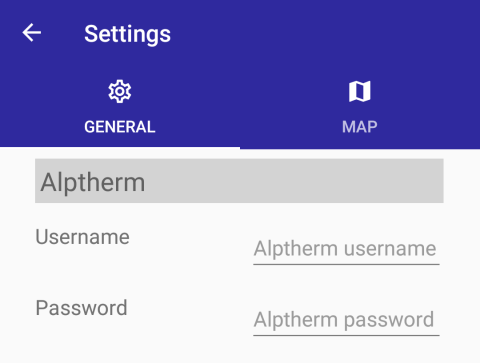
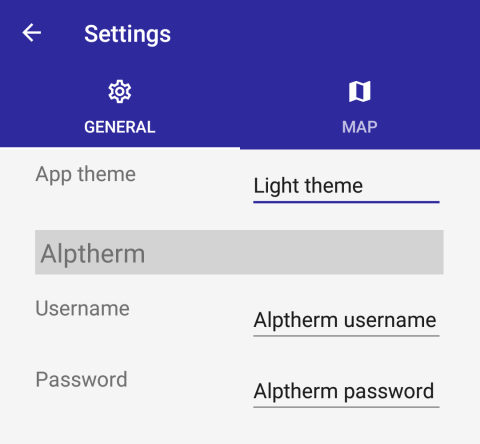
updated manual

diff --git a/src/App/Resources/Assets/info/manual.md b/src/App/Resources/Assets/info/manual.md
@@ -6,22 +6,56 @@ Welcome to the manual page for the Where-to-fly app!
 
 ![Map View](images/map-view.jpg)
 
-The 3D map lets you see the terrain profile of the world in a map that can
-display different imagery layers (in this case OpenStreetMap). The map is
-shaded according to the sun's current position. The map can be moved around
-using touch controls:
+The map lets you see a 3D map that visualizes the terrain of the world.
+Different imagery layers can be used to show the ground details (in this case
+it's OpenStreetMap). The map is shaded according to the sun's current
+position, in order to see which slopes are better for early thermals or late
+in the day. The map can be moved around using touch controls:
 
 ![Map touch controls](images/map-touch-controls.png)
 
-Locations and tracks can be imported and are displayed on the map. Locations
-can be tapped to show more infos about a pin. Additional custom layers can be
-added that can display other geometric objects, such as thermals, national
-park areas, air spaces or labels. Here you can see the details of a summit
-location:
+Locations and tracks can be imported and are displayed on the map. Location
+pins can be tapped to show detail infos about a location. Here you can see the
+details of a summit location:
 
 ![Location info](images/location-info.png)
 
-Depending on the map element, different option icons are displayed.
+Depending on the map element, different option icons are displayed. Locations
+have the following options:
+
+- ![Show details](images/information-outline.svg) Show details: Opens a page
+  with the location's details
+- ![Navigate here](images/directions.svg) Navigate here: Starts the navigation
+  app to show a route to this point
+
+### Track height profile
+
+When tapping on a track, the height profile of that track is shown in a
+semi-transparent window on the lower part of the window:
+
+![Track height profile](images/track-height-profile.png)
+
+The height profile shows the tracks's height, and if it's a flight track, also
+shows the ground profile. When touching the height profile with a finger, or
+when hovering or clicking with a mouse, a line and a tooltip is shown with
+extra infos about the current position. Additionally, a purple pin is shown in
+the map at the current track position.
+
+There are several toolbar buttons above the track height profile:
+
+- ![Zoom-and-pan](../map/images/gesture-spread.svg) Zoom-and-pan: When active
+  (white), the user can zoom (with a pinch gesture) and pan (with a one-finger
+  drag gesture) the height profile.
+- ![Hover](../map/images/gesture-tap.svg) Hover: Fixes the height profile dimensions
+  after panning and zooming to explore the height profile by hovering over the
+  track points.
+- ![Reset zoom](../map/images/arrow-expand-horizontal.svg) Reset zoom: Resets the
+  zoomed height profile to the full track again
+- ![Close](../map/images/close.svg) Close: Closes the height profile window again
+
+Custom layers can be added to the map. The layers can display geometric
+objects, such as thermals, national park areas, air spaces or labels. The
+layers can be imported from CZML files or OpenAir Airspace text files.
 
 ### Title bar icons
 
@@ -92,14 +126,14 @@ following menu entries:
 ![Locations list](images/location-list.png)
 
 The location list shows all locations. The list can be filtered using the
-entry line. When no location is imported yet, a message is shown. Tapping on
-an entry shows the details of that location (see below).
+entry line. When no location is imported yet, a message is shown that the list
+is empty. Tapping on an entry shows the details of that location (see below).
 
 To the right of the filter entry line is the takeoff directions selection
 icon. Tapping the icon opens a pop-up dialog that lets you select takeoff
 directions that should be used to filter the location list entries. Note that
 the app tries to recognize the start directions from the location title or
-description text.
+description text at import.
 
 ![Takeoff directions filter](images/takeoff-directions.png)
 
@@ -117,7 +151,7 @@ When opening a new list, you can choose to append to the existing list or
 replace all existing entries.
 
 Locations can also be added when opening supported file types using the app
-(e.g. by tapping on the file or by downloadng a file from the web).
+(e.g. by tapping on the file or by downloading a file from the web).
 
 The ![Remove all locations](images/delete-forever.svg) button removes all
 locations in the list.
@@ -148,12 +182,12 @@ The following title bar icons are available:
 
 ### Live waypoints
 
-Some locations can be updated live, e.g. for live tracking purposes. The
-locations are imported by clicking on weblinks that start with
+Some locations can be updated periodically, e.g. for live tracking purposes.
+The locations are imported by clicking on weblinks that start with
 `where-to-fly://`. The position and other infos of those live waypoints
 are updated periodically while the app is running. The live waypoint data is
 queried from the Where-to-fly background service. Sources for live waypoints
-currently are Garmin inReach devices or Find me Spot tracker devices.
+currently are "Garmin inReach" devices or "Find me Spot" tracker devices.
 
 ## ![Tracks](../icons/map-marker-distance.svg) Tracks
 
@@ -179,15 +213,16 @@ flight, you can select a single color for the track line.
 
 In the rare case that the track has no time points (e.g. for KML LineStrings)
 another field "Track point time interval" appears that lets you specify the
-time delta between the track points. This is only used for correctly
-calculating climb and sink rate.
+time delta between the track points. This is used for correctly calculating
+climb and sink rate.
 
 To adjust the offset of the track point heights, adjust the offset in meters,
 by using the "+" and "-" buttons.
 
 After the track was added, a waiting dialog marked "Sampling track points" is
-shown, for flight tracks only. The track is checked if any track point is
-located below the actual terrain and is adjusted accordingly.
+shown, for flight tracks only. The ground profile is determined and the track
+is checked if any track point is located below the actual terrain and is
+adjusted accordingly.
 
 Tracks can also be added when opening supported file types using the app
 (e.g. by tapping on the file or by downloading a file from the web).
@@ -254,7 +289,9 @@ This can happen for tracks with sub-second track point resolution.
 ![Current Position](images/current-position.png)
 
 The current position page shows the coordinates and other infos about your
-current position.
+current position. If available, the magnetic compass of the device is used
+instead of the heading calculated from GPS. The sunrise and sunset times are
+calculated from the current longitude and latitude.
 
 The position data can be shared with other apps using the
 ![Share](images/share-variant.svg) share button.
@@ -270,7 +307,7 @@ on the ![Add new...](images/border-none-variant.svg) "Add new..." tile or by
 using the ![Add](images/playlist-plus.svg) button.
 
 The ![Add bookmark](images/bookmark-plus-outline.svg) button lets you add new
-web lins. The following dialog appears to add the link:
+web links. The following dialog appears to add the link:
 
 ![Add Weblink](images/weather-add-weblink.png)
 
@@ -282,7 +319,7 @@ When a weather dashboard tile was tapped, the corresponding weather website is
 loaded and shown. The following buttons are available in this page:
 
 - ![Refresh](images/refresh.svg) Reloads the current page, e.g. to update the
-  weather
+  weather infos
 - ![Forecast websites](images/calendar-clock.svg) Shows a list of forecast
   websites to visit next
 - ![Current weather websites](images/weather-partly-cloudy.svg) Shows a list
@@ -294,15 +331,36 @@ image. A menu appears to confirm the download.
 
 ## ![Settings](images/cog.svg) Settings
 
-The settings page shows two tabs.
+The settings page shows two tabs, the general tab and the map tab.
 
 ### ![General](images/cog-outline.svg) General tab
 
 ![Settings](images/settings-general.png)
 
-The General tab lets you specify an account for the Alptherm weather service.
-When opening one of the Alptherm links, the app automatically logs you in. The
-password is stored using
+The General tab lets you specify the following settings.
+
+#### App Theme
+
+Specifies the app color theme that should be used. The following
+options are available:
+
+- Same as device: Uses the theme of the device. Android 9 and later, and
+  Windows 10 version 1803 and later support switching to dark mode. On earlier
+  devices, light theme is automatically used.
+- Light theme: Shows the user interface in a light theme, with light
+  backgrounds and dark or black controls.
+- Dark theme: Shows the user interface in a dark theme. This is easier to read
+  when it's dark outside. It also saves battery with OLED screens.
+
+The default setting is "Same as device". When the device switches themes
+automatically (e.g. dark theme in the evening), then the app also switches
+theme automatically.
+
+#### Alptherm
+
+Lets you enter username/passwort of an account for the Alptherm weather
+service. When opening one of the Alptherm links, the app automatically logs
+you in if necessary. The password is stored using
 [secure storage](https://docs.microsoft.com/en-us/xamarin/essentials/secure-storage?tabs=android).
 
 ### ![Map](images/map.svg) Map tab
@@ -346,4 +404,5 @@ The Map tab has several settings:
   * dd&deg; mm' sss"
 
 The "Clear map view cache" button clears the app's browser cache that stores
-tile map images and terrain height infos.
+tile map images and terrain height infos. This may be useful to use when the
+app doesn't continue to load tiles.
